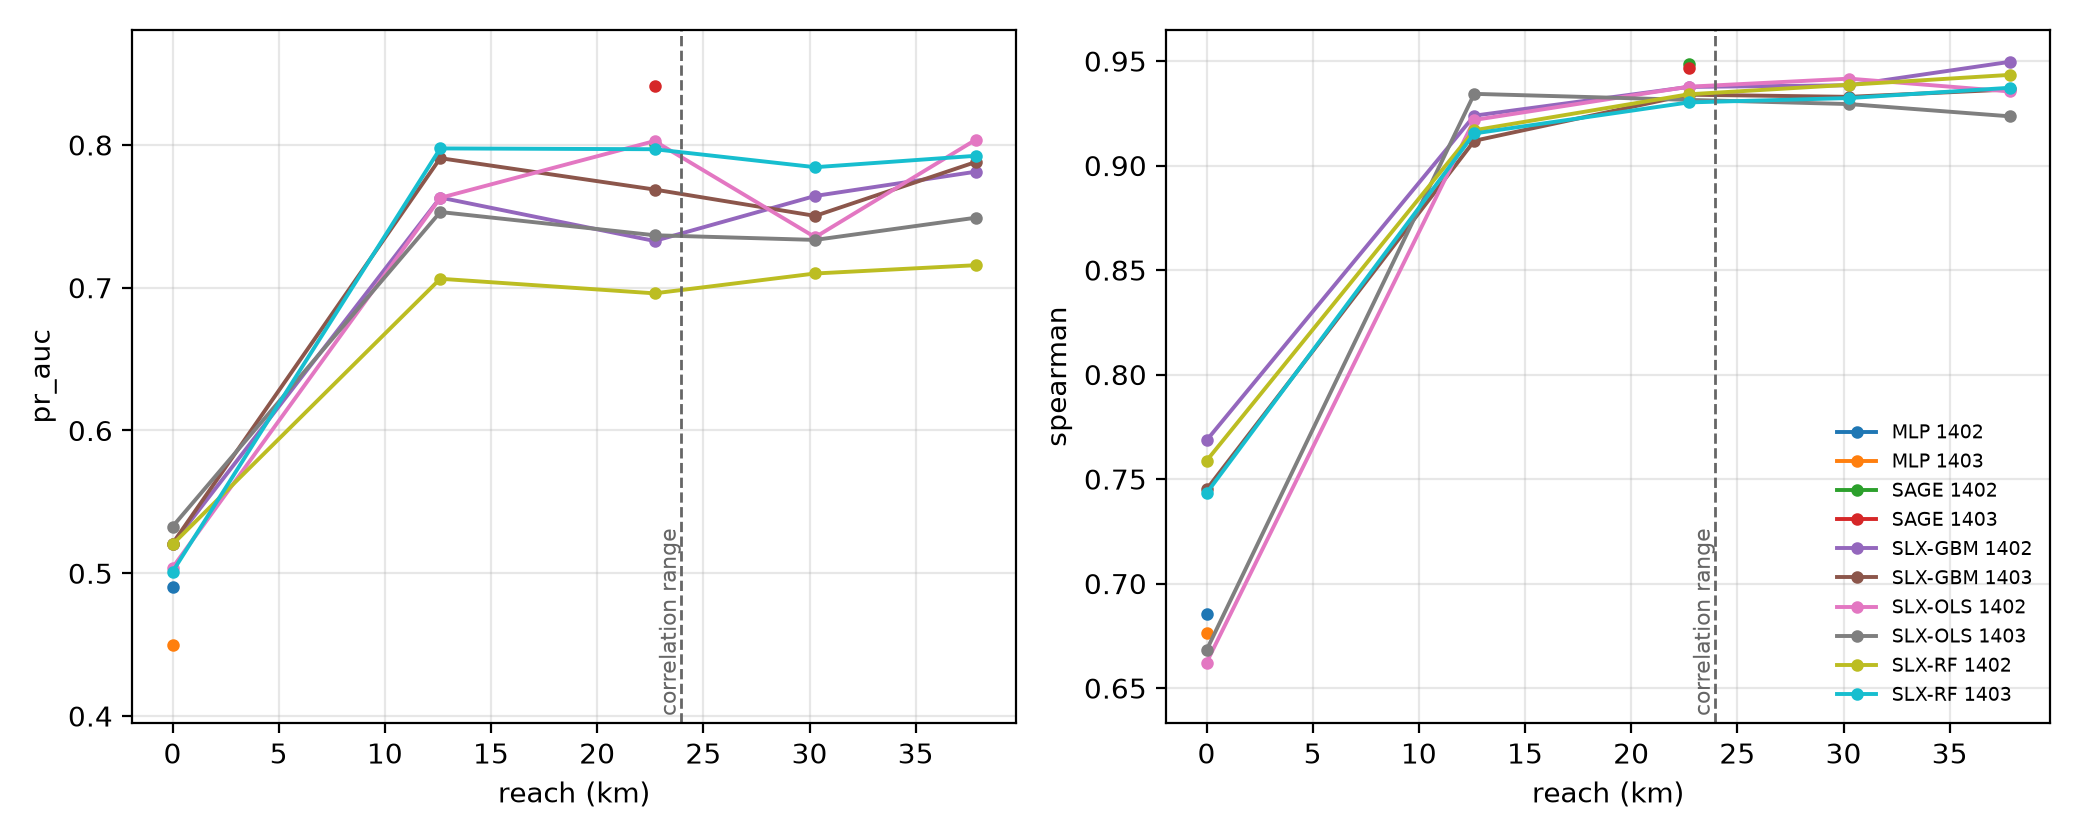
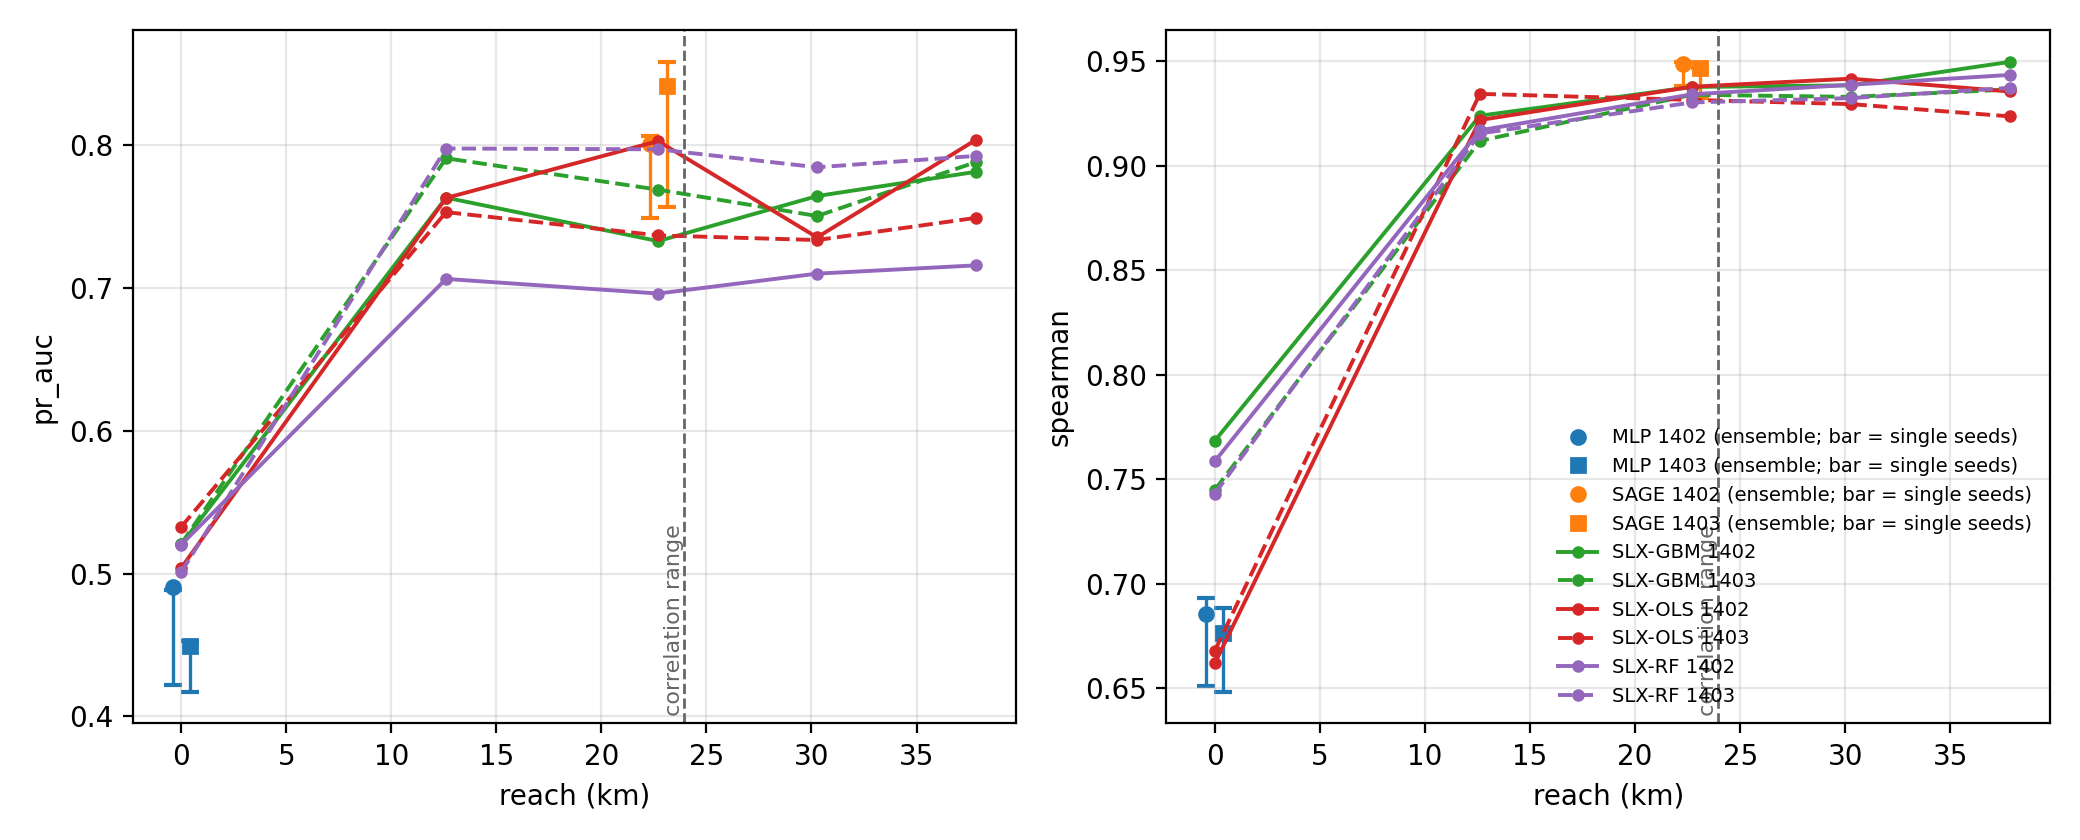
Reach figure: draw the seed range on its own (the ensemble can lie outside it); stage A reach outputs rebuilt
The error bar was measured from the ensemble value, so it became negative when the ensemble beat every seed
(MLP 1402, PR-AUC 0.490 against a seed maximum of 0.488) and matplotlib refused it. Numbers are unchanged.

diff --git a/src/tehran_carbon/analysis/reach.py b/src/tehran_carbon/analysis/reach.py
@@ -133,10 +133,13 @@ class ReachCurve:
                     if seeds:
                         ax.fill_between(g.reach_km, g[lo], g[hi], color=colour[fam], alpha=0.15, lw=0)
                 else:
-                    err = None if not seeds else [g[m].to_numpy() - g[lo].to_numpy(), g[hi].to_numpy() - g[m].to_numpy()]
-                    ax.errorbar(g.reach_km + (0.4 if years.index(y) else -0.4), g[m], yerr=err, color=colour[fam],
-                                fmt="s" if years.index(y) else "o", ms=5, capsize=3, lw=1.2,
-                                label=f"{fam} {y}" + (" (ensemble; bar = single seeds)" if seeds else ""))
+                    # the seed range is drawn on its own: the ensemble can lie outside it (it can beat every seed)
+                    x = (g.reach_km + (0.4 if years.index(y) else -0.4)).to_numpy()
+                    if seeds:
+                        ax.vlines(x, g[lo], g[hi], color=colour[fam], lw=1.2)
+                        ax.scatter(np.r_[x, x], np.r_[g[lo], g[hi]], color=colour[fam], marker="_", s=40)
+                    ax.plot(x, g[m], color=colour[fam], ls="none", marker="s" if years.index(y) else "o", ms=5,
+                            label=f"{fam} {y}" + (" (ensemble; bar = single seeds)" if seeds else ""))
             if np.isfinite(zc):
                 ax.axvline(zc, color="0.4", ls="--", lw=1)
                 ax.text(zc, ax.get_ylim()[0], " correlation range", rotation=90, va="bottom", ha="right",

diff --git a/docs/paper/results_stageA/README.md b/docs/paper/results_stageA/README.md
@@ -13,7 +13,7 @@
 | `target/` | `paper target`: ایستگاهها، ارتفاع، هدف روزانه، n_eff |
 | `timing/` | `paper timing`: هزینهٔ اجرا |
 | `logs/` | لاگ هر فرمان. `stageA_status.log` ترتیب، زمان و کد خروج را دارد و `stageA_parallel.sh` صف اجراهاست |
-| `reach/` | `paper reach --exp paper2_base_v1 paper2_slx_reach_v1 paper2_rq2_mlp_v1 paper2_rq2_sage_v1` (اجرا ۱۷ آبان، کد 0315ca7، فقط خواندن اجراهای مرحلهٔ الف): منحنی معیار در برابر شعاع دید، با میانگین و SD هر seed، و نقطهٔ صفر همبستگینگار (۲۴ کیلومتر) |
+| `reach/` | `paper reach --exp paper2_base_v1 paper2_slx_reach_v1 paper2_rq2_mlp_v1 paper2_rq2_sage_v1` (فقط خواندن اجراهای مرحلهٔ الف؛ اجرای اول روی سرور با کد 0315ca7؛ شکل دوباره روی لپتاپ با شکل تازهٔ 5c89b4b و رفع خطای نوار seedها ساخته شد؛ عددها با اجرای سرور یکی است): منحنی معیار در برابر شعاع دید، با میانگین و SD هر seed، و نقطهٔ صفر همبستگینگار (۲۴ کیلومتر) |
 | `runs_stageA.csv` | ردیفهای `runs/registry.csv` برای ۸۷ اجرای این مرحله، با هش کانفیگ، هش داده و خلاصهٔ معیارها |
 
 `data/raw/MANIFEST.csv` در همین کامیت `spatial/dem_L0.tif` را هم دارد (از `gee/GEE_DEM_L0.js`).
